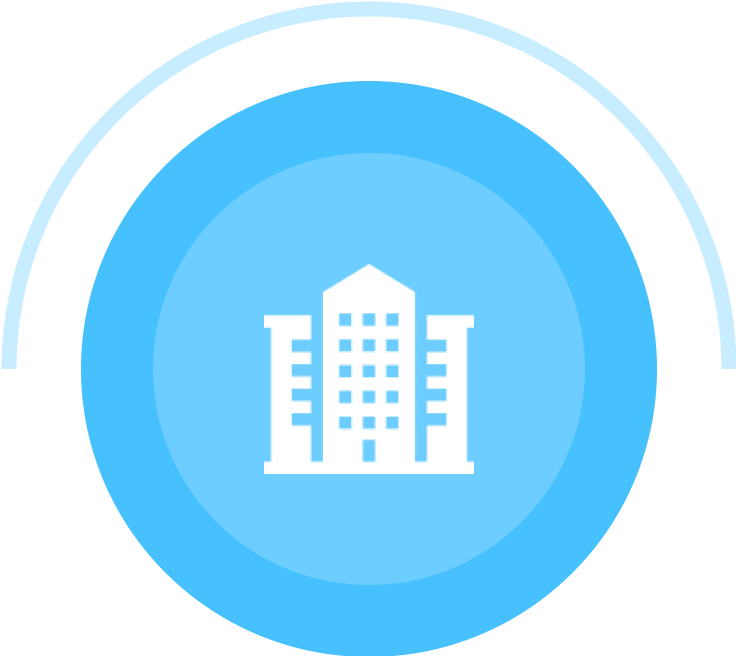
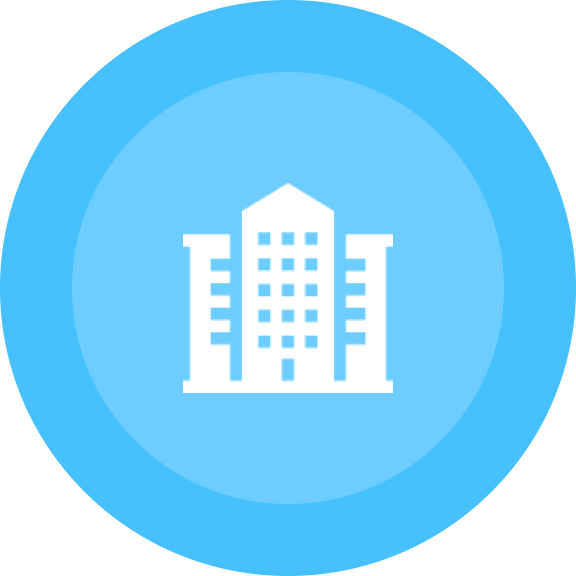
fixed the match jobs section

diff --git a/constants/Svgs/Icons.tsx b/constants/Svgs/Icons.tsx
@@ -1,0 +1,55 @@
+type Props = {
+  className: string;
+  stroke: string;
+  fill: string;
+};
+
+export const BottomCurvedline: React.FC<Props> = ({
+  className,
+  stroke,
+  fill,
+}: Props) => {
+  return (
+    <svg
+      xmlns="http://www.w3.org/2000/svg"
+      width="246"
+      height="123"
+      viewBox="0 0 246 123"
+      fill={fill}
+      stroke={stroke}
+      className={className}
+    >
+      <path
+        d="M243 1.14441e-05C243 15.7586 239.896 31.3629 233.865 45.9219C227.835 60.481 218.995 73.7097 207.852 84.8527C196.709 95.9957 183.481 104.835 168.922 110.865C154.363 116.896 138.758 120 123 120C107.241 120 91.6369 116.896 77.0779 110.865C62.5188 104.835 49.2901 95.9957 38.1471 84.8527C27.0041 73.7097 18.165 60.481 12.1344 45.9219C6.10388 31.3629 3 15.7586 3 0"
+        stroke="#47C1FE"
+        stroke-opacity="0.7"
+        stroke-width="5"
+      />
+    </svg>
+  );
+};
+
+export const TopCurvedline: React.FC<Props> = ({
+  className,
+  stroke,
+  fill,
+}: Props) => {
+  return (
+    <svg
+      xmlns="http://www.w3.org/2000/svg"
+      width="246"
+      height="123"
+      viewBox="0 0 246 123"
+      fill={fill}
+      stroke={stroke}
+      className={className}
+    >
+      <path
+        d="M243 123C243 107.241 239.896 91.6369 233.865 77.0778C227.835 62.5188 218.995 49.2901 207.852 38.1471C196.709 27.0041 183.481 18.165 168.922 12.1344C154.363 6.10388 138.758 3 123 3C107.241 3 91.6369 6.1039 77.0779 12.1345C62.5188 18.165 49.2901 27.0041 38.1471 38.1471C27.0041 49.2901 18.165 62.5188 12.1344 77.0779C6.10388 91.6369 3 107.241 3 123"
+        stroke="#47C1FE"
+        stroke-opacity="0.3"
+        stroke-width="5"
+      />
+    </svg>
+  );
+};

diff --git a/components/Home/MatchJobs/ItemCard.tsx b/components/Home/MatchJobs/ItemCard.tsx
@@ -1,5 +1,6 @@
-import NextImage from "@/components/Shared/Image/NextImage";
 import React from "react";
+import NextImage from "@/components/Shared/Image/NextImage";
+import * as Icons from "@/constants/Svgs/Icons";
 
 type Props = {
   isTop?: boolean;
@@ -27,10 +28,24 @@ const ItemCard: React.FC<Props> = ({
           {title}
         </p>
       )}
+      {!isTop && (
+        <Icons.TopCurvedline
+          fill="none"
+          stroke=""
+          className="lg:-mb-24 xl:-mb-28 md:-mb-24 sm:-mb-[76px] -mb-[70px] z-10 xl:w-[240px] lg:w-[180px] md:w-[130px] sm:w-[110px] w-[70px]"
+        />
+      )}
       <NextImage
         imageSrc={logo}
-        containerStyle="xl:w-[240px] lg:w-[180px] md:w-[130px] sm:w-[110px] w-[70px] h-[70px] sm:h-[90px] xl:h-[216px] lg:h-[160px] md:h-[120px]"
+        containerStyle="xl:w-[240px] lg:w-[180px] md:w-[130px] sm:w-[110px] w-[70px] h-[70px] sm:h-[90px] xl:h-[190px] lg:h-[160px] md:h-[115px]"
       />
+      {isTop && (
+        <Icons.BottomCurvedline
+          fill="none"
+          stroke=""
+          className="lg:-mt-24 xl:-mt-28 md:-mt-24 sm:-mt-[76px] -mt-[70px] z-10 xl:w-[240px] lg:w-[180px] md:w-[130px] sm:w-[110px] w-[70px]"
+        />
+      )}
       {!isTop && (
         <p className="text-black-main sm:text-sm text-xs md:text-base text-center lg:text-xl xl:text-2xl font-medium">
           {title}
